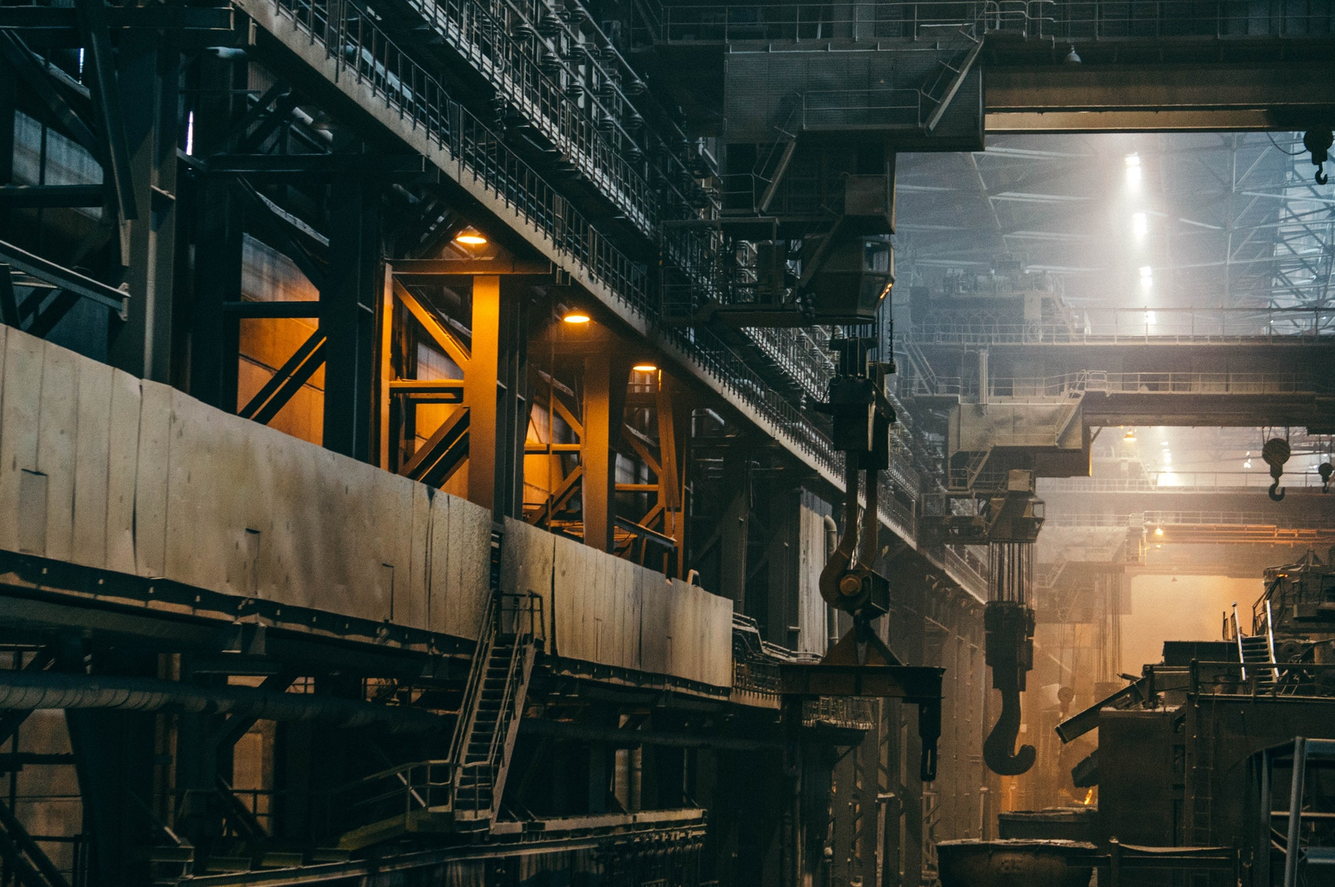
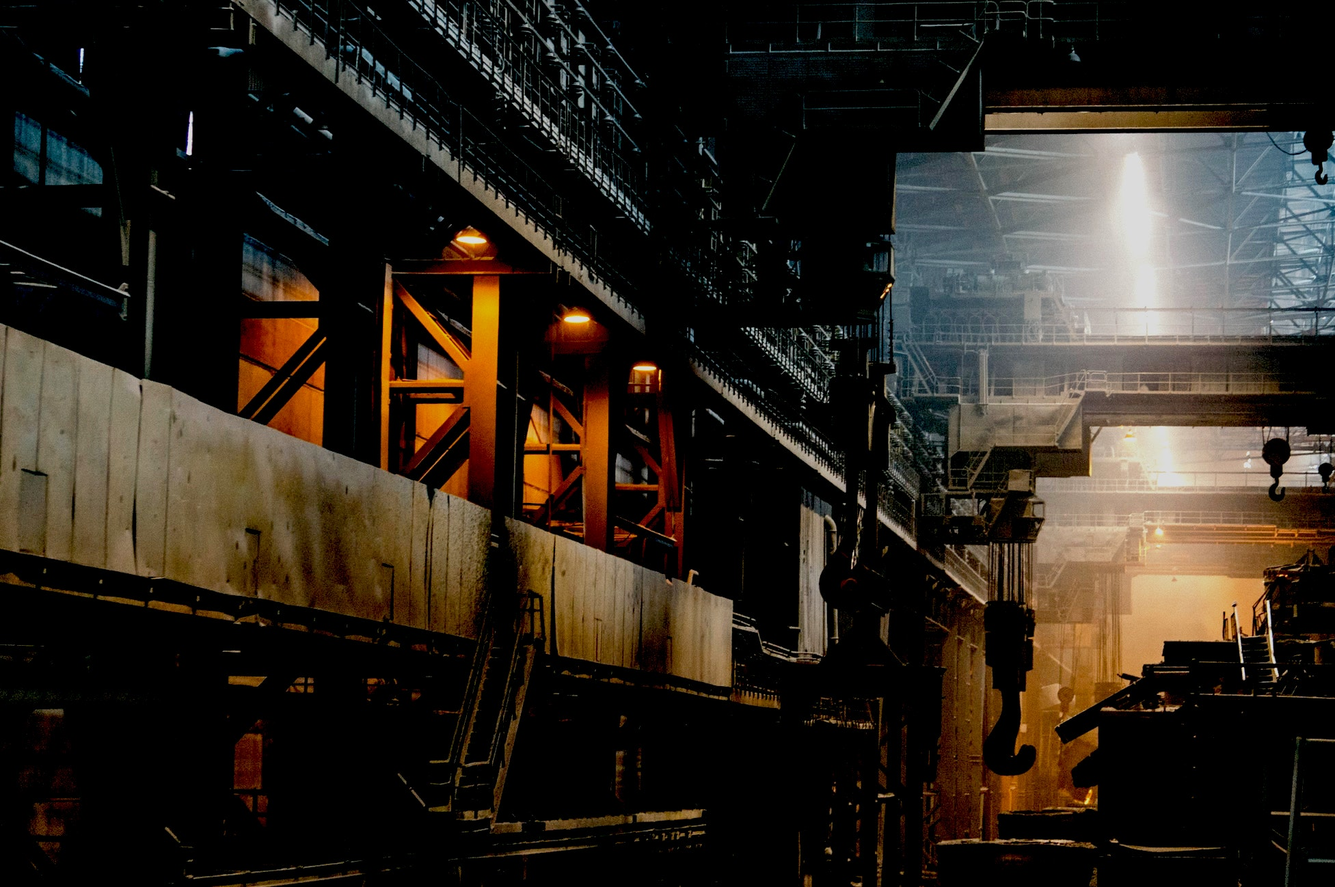
removed linear gradient

diff --git a/public/assets/css/style.css b/public/assets/css/style.css
@@ -121,7 +121,8 @@ header nav li {
 }
 
 .hero .background-image {
-	background-image:linear-gradient(rgb(0, 0, 0, 0.4), rgba(0, 0, 0.4)),  url(../../assets/img/main/mill2.png);
+	/* background-image:linear-gradient(rgb(0, 0, 0, 0.4), rgba(0, 0, 0.4)),  url(../../assets/img/main/mill2.png); */
+	background-image: url(../../assets/img/main/mill2.jpeg);
 	position: absolute;
 	top: 0;
 	left: 0;
